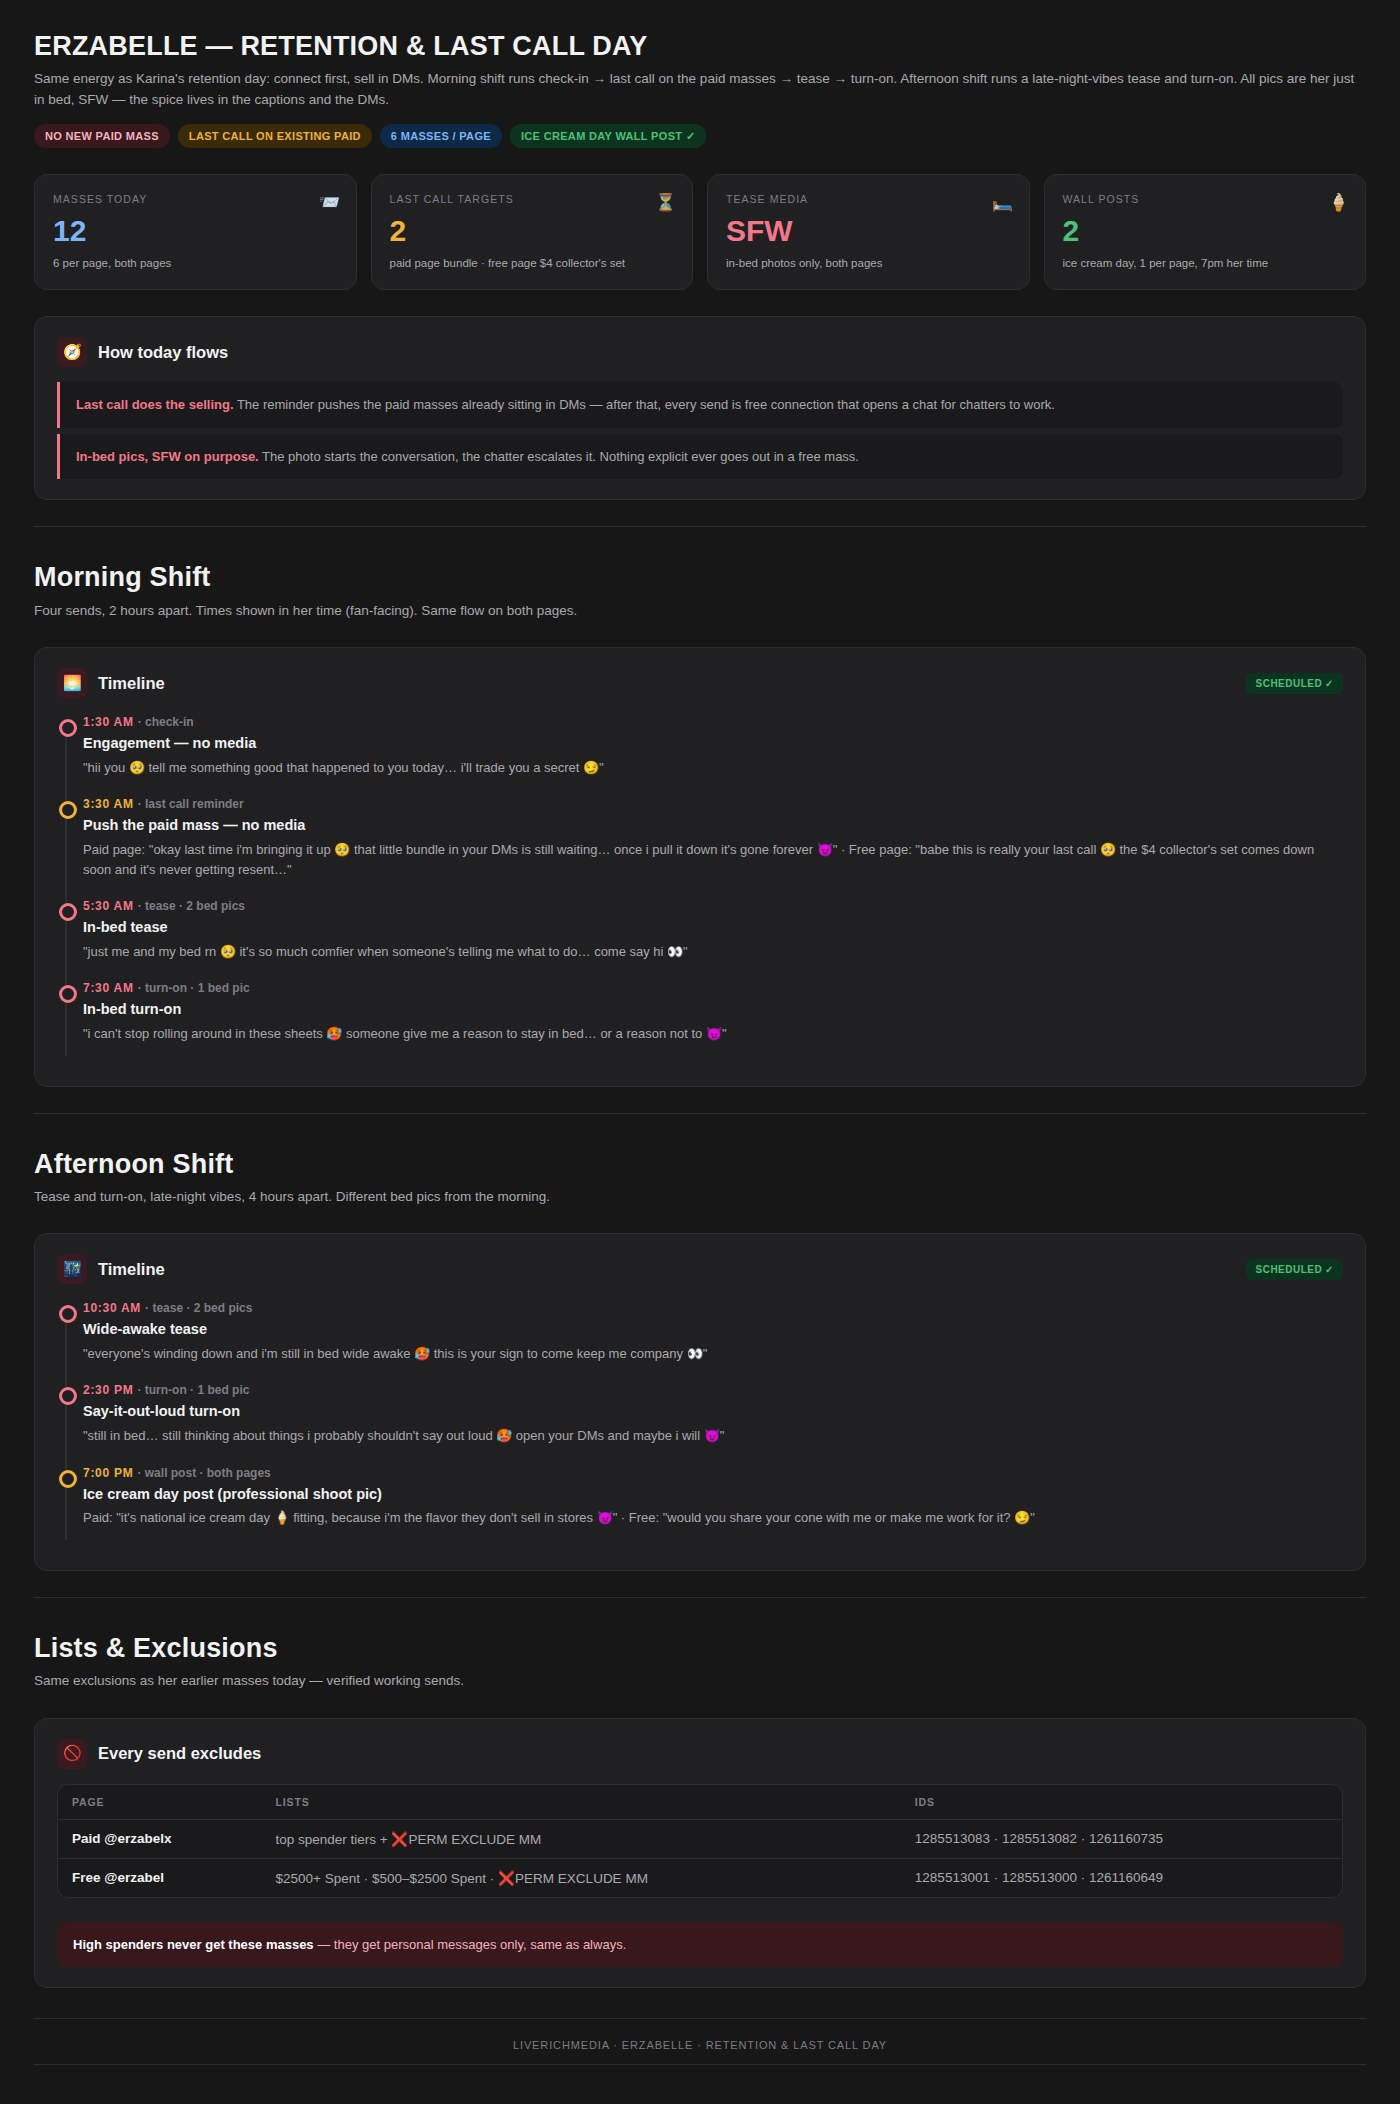
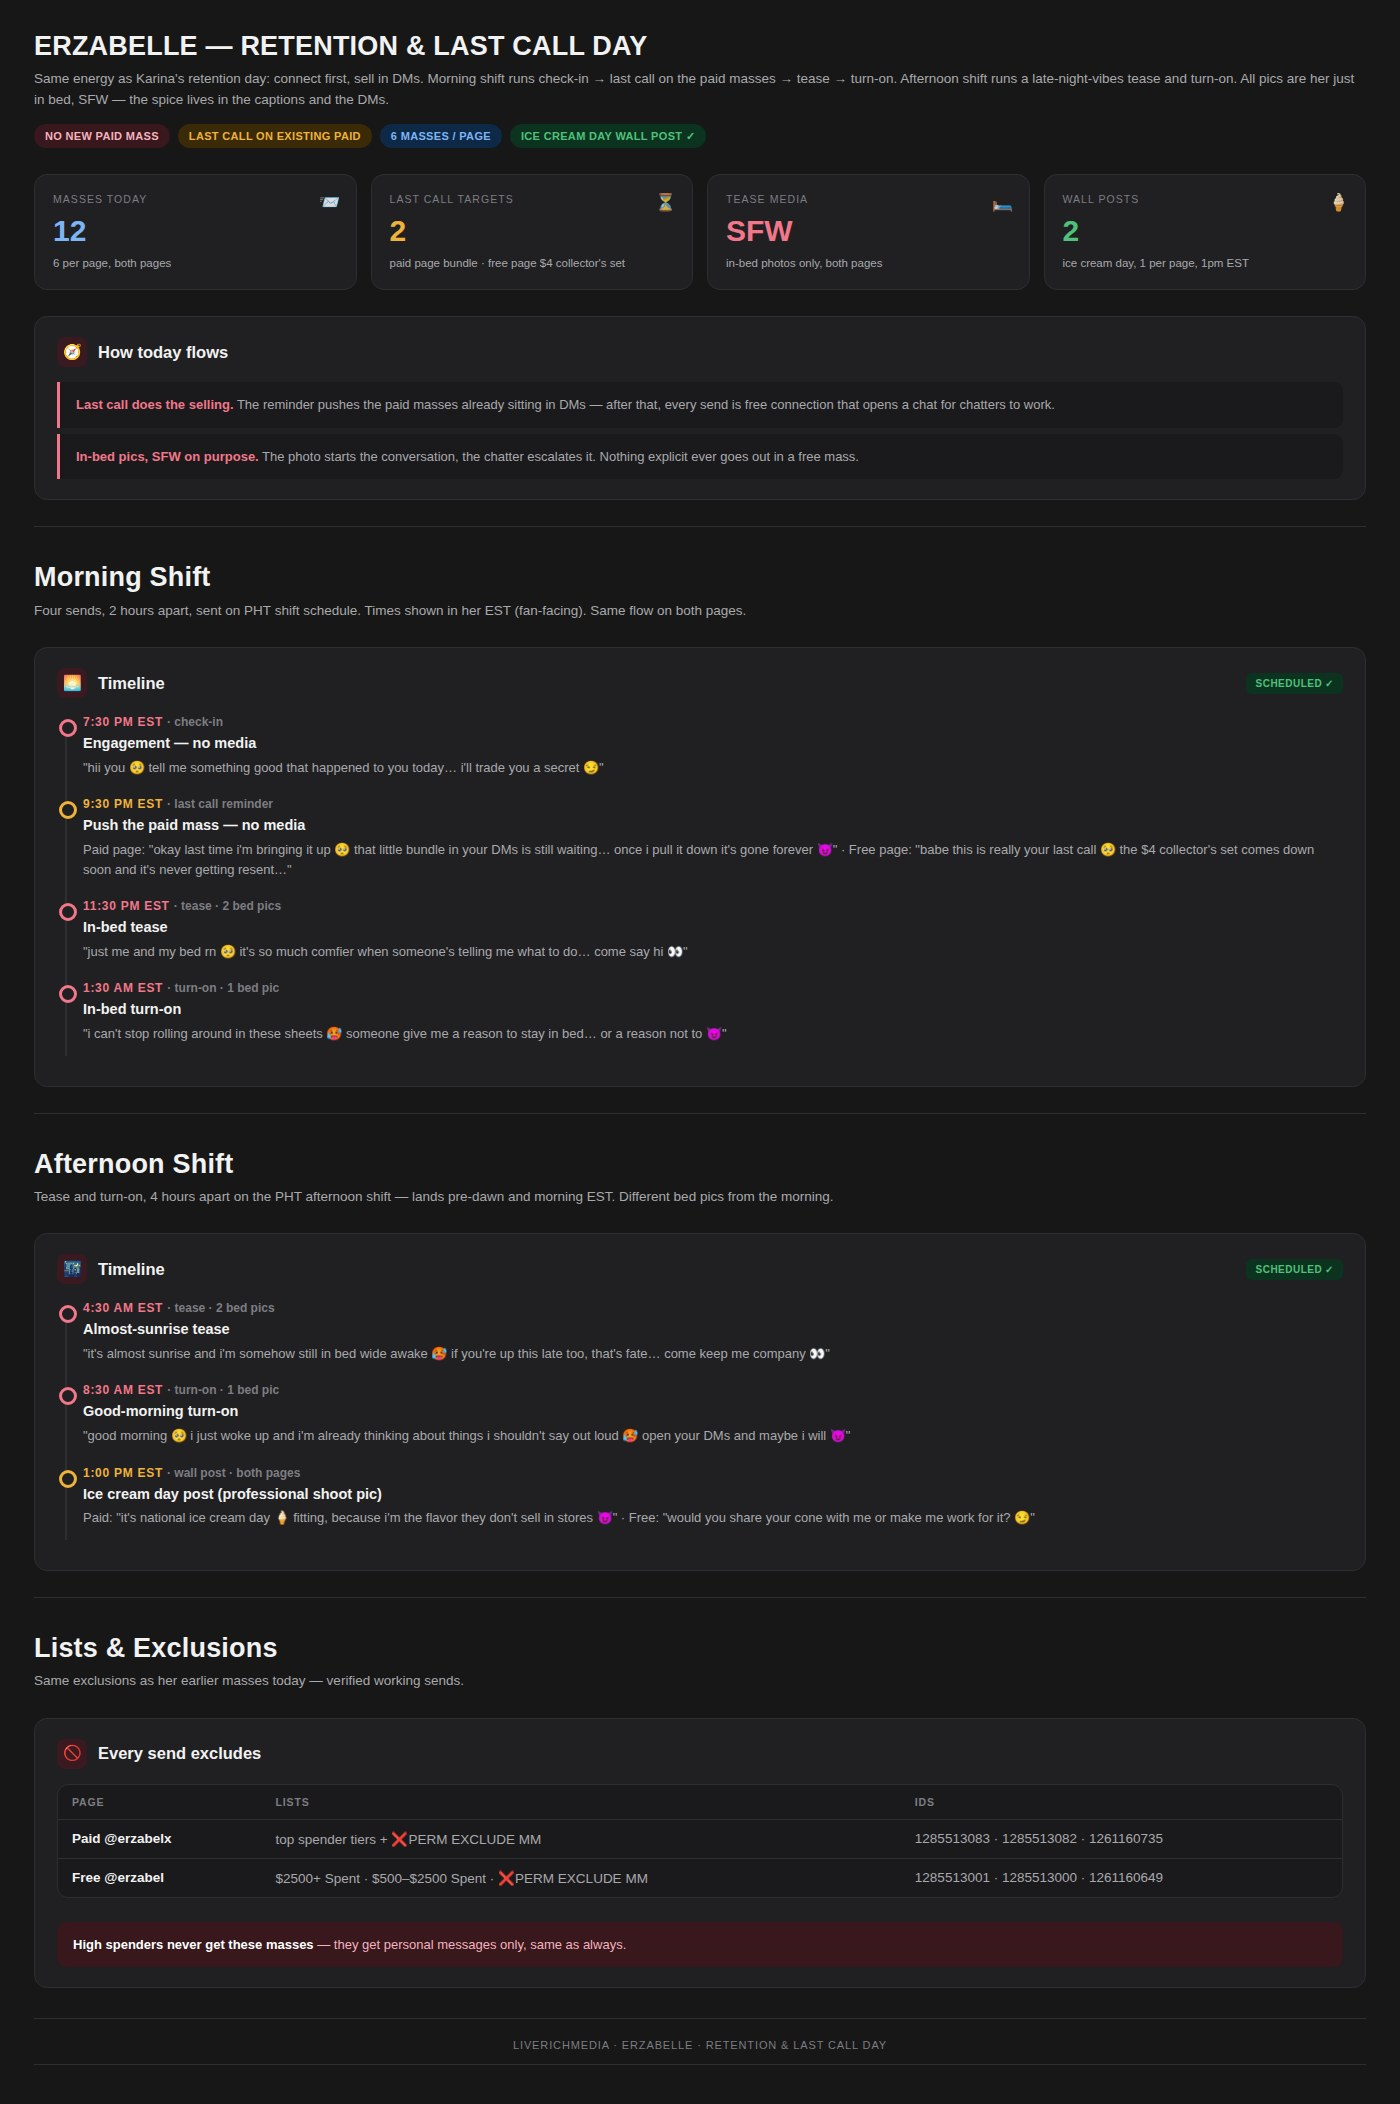
Erzabelle gameplan: EST fan-facing times + pre-dawn/morning captions
Claude-Session: https://claude.ai/code/session_01RFdpmEfnXAkHCUdXS4yV1v

diff --git a/gameplan-erzabelle-retention-lastcall.html b/gameplan-erzabelle-retention-lastcall.html
@@ -122,7 +122,7 @@
     <div class="stat"><div class="lbl">Masses Today</div><div class="num blue">12</div><div class="foot">6 per page, both pages</div><div class="ic">📨</div></div>
     <div class="stat"><div class="lbl">Last Call Targets</div><div class="num gold">2</div><div class="foot">paid page bundle · free page $4 collector's set</div><div class="ic">⏳</div></div>
     <div class="stat"><div class="lbl">Tease Media</div><div class="num red">SFW</div><div class="foot">in-bed photos only, both pages</div><div class="ic">🛏️</div></div>
-    <div class="stat"><div class="lbl">Wall Posts</div><div class="num green">2</div><div class="foot">ice cream day, 1 per page, 7pm her time</div><div class="ic">🍦</div></div>
+    <div class="stat"><div class="lbl">Wall Posts</div><div class="num green">2</div><div class="foot">ice cream day, 1 per page, 1pm EST</div><div class="ic">🍦</div></div>
   </div>
   <div class="card">
     <div class="card-h"><div class="ci">🧭</div><h3>How today flows</h3></div>
@@ -134,28 +134,28 @@
 <section class="section" id="morning">
   <div class="page-head">
     <h1>Morning Shift</h1>
-    <div class="sub">Four sends, 2 hours apart. Times shown in her time (fan-facing). Same flow on both pages.</div>
+    <div class="sub">Four sends, 2 hours apart, sent on PHT shift schedule. Times shown in her EST (fan-facing). Same flow on both pages.</div>
   </div>
   <div class="card">
     <div class="card-h"><div class="ci">🌅</div><h3>Timeline</h3><span class="tag g">SCHEDULED ✓</span></div>
     <div class="timeline">
       <div class="t-item">
-        <div class="t-time">1:30 AM <span class="sub">· check-in</span></div>
+        <div class="t-time">7:30 PM EST <span class="sub">· check-in</span></div>
         <div class="t-title">Engagement — no media</div>
         <div class="t-body">"hii you 🥺 tell me something good that happened to you today… i'll trade you a secret 😏"</div>
       </div>
       <div class="t-item money">
-        <div class="t-time">3:30 AM <span class="sub">· last call reminder</span></div>
+        <div class="t-time">9:30 PM EST <span class="sub">· last call reminder</span></div>
         <div class="t-title">Push the paid mass — no media</div>
         <div class="t-body">Paid page: "okay last time i'm bringing it up 🥺 that little bundle in your DMs is still waiting… once i pull it down it's gone forever 😈" · Free page: "babe this is really your last call 🥺 the $4 collector's set comes down soon and it's never getting resent…"</div>
       </div>
       <div class="t-item">
-        <div class="t-time">5:30 AM <span class="sub">· tease · 2 bed pics</span></div>
+        <div class="t-time">11:30 PM EST <span class="sub">· tease · 2 bed pics</span></div>
         <div class="t-title">In-bed tease</div>
         <div class="t-body">"just me and my bed rn 🥺 it's so much comfier when someone's telling me what to do… come say hi 👀"</div>
       </div>
       <div class="t-item">
-        <div class="t-time">7:30 AM <span class="sub">· turn-on · 1 bed pic</span></div>
+        <div class="t-time">1:30 AM EST <span class="sub">· turn-on · 1 bed pic</span></div>
         <div class="t-title">In-bed turn-on</div>
         <div class="t-body">"i can't stop rolling around in these sheets 🥵 someone give me a reason to stay in bed… or a reason not to 😈"</div>
       </div>
@@ -166,23 +166,23 @@
 <section class="section" id="afternoon">
   <div class="page-head">
     <h1>Afternoon Shift</h1>
-    <div class="sub">Tease and turn-on, late-night vibes, 4 hours apart. Different bed pics from the morning.</div>
+    <div class="sub">Tease and turn-on, 4 hours apart on the PHT afternoon shift — lands pre-dawn and morning EST. Different bed pics from the morning.</div>
   </div>
   <div class="card">
     <div class="card-h"><div class="ci">🌃</div><h3>Timeline</h3><span class="tag g">SCHEDULED ✓</span></div>
     <div class="timeline">
       <div class="t-item">
-        <div class="t-time">10:30 AM <span class="sub">· tease · 2 bed pics</span></div>
-        <div class="t-title">Wide-awake tease</div>
-        <div class="t-body">"everyone's winding down and i'm still in bed wide awake 🥵 this is your sign to come keep me company 👀"</div>
+        <div class="t-time">4:30 AM EST <span class="sub">· tease · 2 bed pics</span></div>
+        <div class="t-title">Almost-sunrise tease</div>
+        <div class="t-body">"it's almost sunrise and i'm somehow still in bed wide awake 🥵 if you're up this late too, that's fate… come keep me company 👀"</div>
       </div>
       <div class="t-item">
-        <div class="t-time">2:30 PM <span class="sub">· turn-on · 1 bed pic</span></div>
-        <div class="t-title">Say-it-out-loud turn-on</div>
-        <div class="t-body">"still in bed… still thinking about things i probably shouldn't say out loud 🥵 open your DMs and maybe i will 😈"</div>
+        <div class="t-time">8:30 AM EST <span class="sub">· turn-on · 1 bed pic</span></div>
+        <div class="t-title">Good-morning turn-on</div>
+        <div class="t-body">"good morning 🥺 i just woke up and i'm already thinking about things i shouldn't say out loud 🥵 open your DMs and maybe i will 😈"</div>
       </div>
       <div class="t-item money">
-        <div class="t-time">7:00 PM <span class="sub">· wall post · both pages</span></div>
+        <div class="t-time">1:00 PM EST <span class="sub">· wall post · both pages</span></div>
         <div class="t-title">Ice cream day post (professional shoot pic)</div>
         <div class="t-body">Paid: "it's national ice cream day 🍦 fitting, because i'm the flavor they don't sell in stores 😈" · Free: "would you share your cone with me or make me work for it? 😏"</div>
       </div>